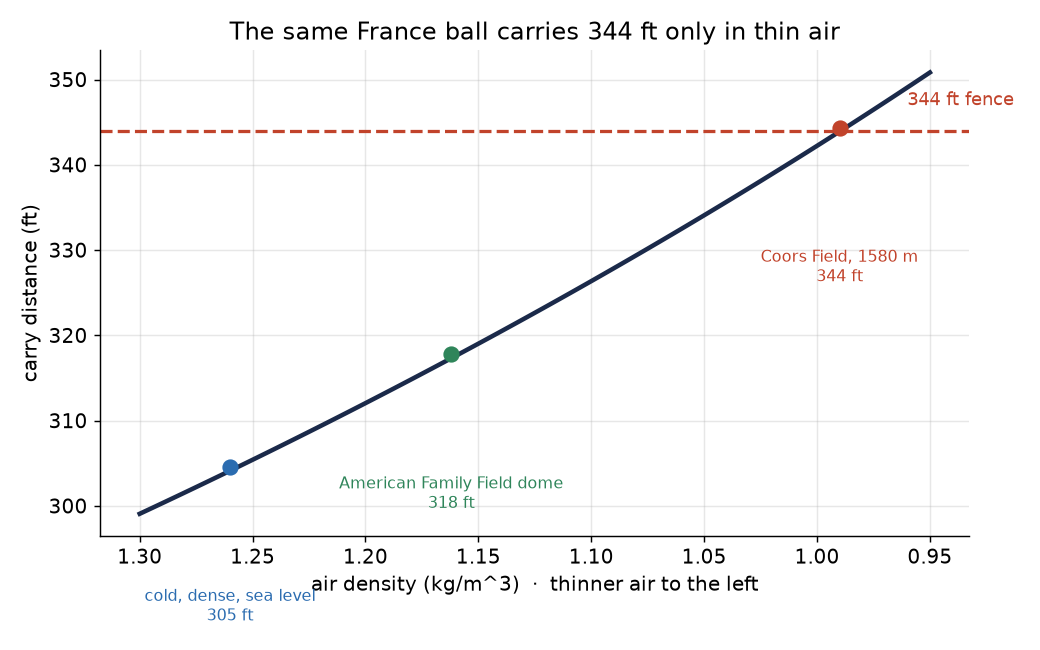
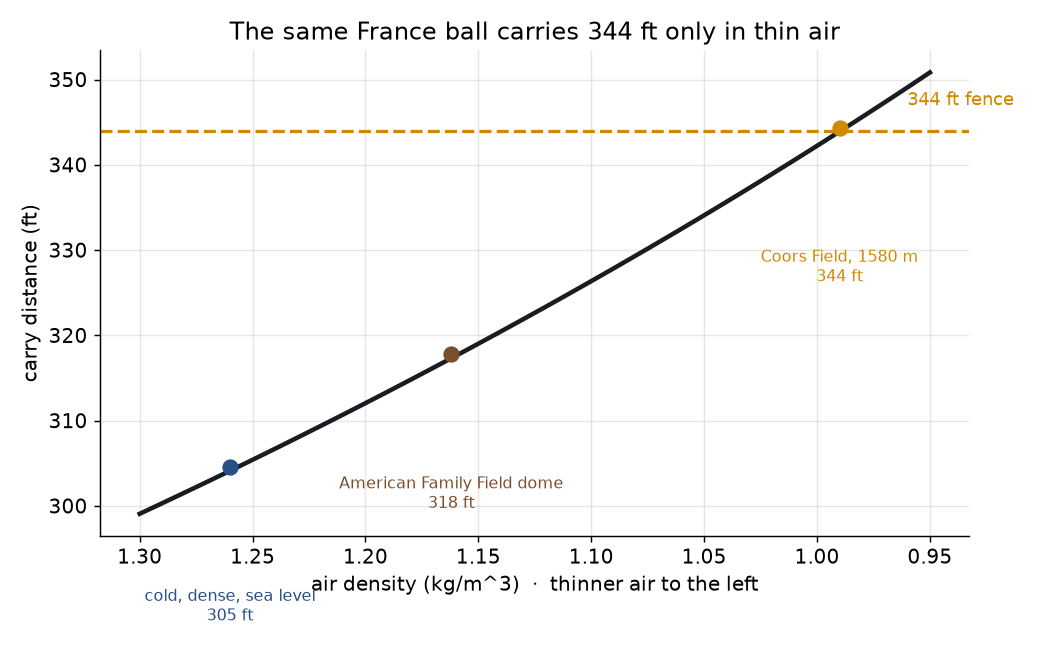
feat(web): Brewers/Padres matchup palette (navy + gold + brown)
Navy for the pool and the park, gold for the home-run accent (both clubs share it), Padres brown for France's own marks (the cable strike, the cut-short path, his line and the dome point). Applied to the page tokens, the in-browser charts, all six figures, and the favicon (gold Eiffel on deep navy). Light and dark variants both themed.

diff --git a/site/index.html b/site/index.html
@@ -13,26 +13,27 @@
 /* Layout: single-column data story, ~680px reading column, full-bleed chart cards.
    Tokens first (light), redefined for dark under both media and [data-theme]. */
 :root{
-  --bg:#f3f4f1; --surface:#ffffff; --fg:#15181c; --muted:#59636e;
-  --line:#dadfd8; --grid:rgba(0,0,0,.08);
-  --accent:#df4f27;      /* over the fence, home run */
-  --accent-soft:#f3cfc2;
-  --cool:#36627f;        /* fell short, distribution */
-  --cool-soft:#c6d6df;
+  --bg:#f3f1ec; --surface:#ffffff; --fg:#1a1c22; --muted:#5f6670;
+  --line:#dedbd2; --grid:rgba(0,0,0,.08);
+  --accent:#cf8a00;      /* gold: reached / home run */
+  --accent-soft:#f0dcae;
+  --cool:#284f86;        /* Brewers navy: fell short, the pool */
+  --cool-soft:#cdd9ea;
+  --france:#7a4f2e;       /* Padres brown: France's own ball */
   --display:"Oswald",system-ui,sans-serif;
   --body:"IBM Plex Sans",system-ui,sans-serif;
   --mono:"IBM Plex Mono",ui-monospace,monospace;
 }
 @media (prefers-color-scheme:dark){:root:not([data-theme="light"]){
-  --bg:#111419; --surface:#191d23; --fg:#e7eae5; --muted:#99a4b0;
-  --line:#2a313a; --grid:rgba(255,255,255,.09);
-  --accent:#ff6b3d; --accent-soft:#4a2a1e; --cool:#5c9ccc; --cool-soft:#213744;
+  --bg:#12151b; --surface:#1a1e25; --fg:#e9ebf0; --muted:#9aa3b0;
+  --line:#2a2f38; --grid:rgba(255,255,255,.09);
+  --accent:#ffc52f; --accent-soft:#43351a; --cool:#6f9fd6; --cool-soft:#1e2f49; --france:#c08a5a;
   color-scheme:dark;
 }}
 :root[data-theme="dark"]{
-  --bg:#111419; --surface:#191d23; --fg:#e7eae5; --muted:#99a4b0;
-  --line:#2a313a; --grid:rgba(255,255,255,.09);
-  --accent:#ff6b3d; --accent-soft:#4a2a1e; --cool:#5c9ccc; --cool-soft:#213744;
+  --bg:#12151b; --surface:#1a1e25; --fg:#e9ebf0; --muted:#9aa3b0;
+  --line:#2a2f38; --grid:rgba(255,255,255,.09);
+  --accent:#ffc52f; --accent-soft:#43351a; --cool:#6f9fd6; --cool-soft:#1e2f49; --france:#c08a5a;
   color-scheme:dark;
 }
 *{box-sizing:border-box}
@@ -160,8 +161,7 @@ footer .mono{font-size:.78rem}
       <p class="csub">Side view from home plate, to scale: the free-flight arc, the cable-clipped path, and the model's landing distribution along the ground.</p>
       <div class="legend">
         <span><i class="swatch" style="background:var(--accent)"></i>model free flight</span>
-        <span><i class="swatch" style="background:#d99a2b"></i>roof cable</span>
-        <span><i class="swatch" style="background:var(--muted)"></i>path after the cable</span>
+        <span><i class="swatch" style="background:var(--france)"></i>cable and path after</span>
         <span><i class="swatch" style="background:var(--fg)"></i>344 ft fence (8 ft)</span>
       </div>
       <div class="chart-box" id="trajBox"></div>
@@ -235,7 +235,7 @@ footer .mono{font-size:.78rem}
       <p class="csub">Carry of the 105.3 mph, 49 degree ball across air densities, from the fitted model.</p>
       <div class="legend">
         <span><i class="swatch" style="background:var(--accent)"></i>Coors Field (0.99)</span>
-        <span><i class="swatch" style="background:#3a9d5d"></i>Milwaukee dome (1.16)</span>
+        <span><i class="swatch" style="background:var(--france)"></i>Milwaukee dome (1.16)</span>
         <span><i class="swatch" style="background:var(--cool)"></i>cold sea level (1.26)</span>
       </div>
       <div class="chart-box" style="height:300px"><canvas id="chartDensity"></canvas></div>
@@ -421,7 +421,7 @@ function build(){
   }));
 
   // 4. air density effect at the France profile
-  const green='#3a9d5d';
+  const france=cssv('--france');
   const dc=DATA.density_curve;
   const dpts=dc.rho.map((r,i)=>({x:r,y:dc.carry[i]}));
   charts.push(new Chart(document.getElementById('chartDensity'),{
@@ -429,7 +429,7 @@ function build(){
     data:{datasets:[
       {data:dpts,showLine:true,borderColor:fg,borderWidth:2.5,pointRadius:0,tension:.2,order:2},
       {data:dc.markers.map(m=>({x:m.rho,y:m.carry})),pointRadius:6,
-        backgroundColor:dc.markers.map((m,i)=>[acc,green,cool][i]),borderWidth:0,order:1}
+        backgroundColor:dc.markers.map((m,i)=>[acc,france,cool][i]),borderWidth:0,order:1}
     ]},
     options:{responsive:true,maintainAspectRatio:false,animation:false,
       plugins:{legend:{display:false},tooltip:{callbacks:{label:it=>`density ${it.parsed.x.toFixed(2)}: ${Math.round(it.parsed.y)} ft`}},
@@ -445,7 +445,7 @@ function build(){
 function drawTrajectory(){
   const T=DATA.trajectory;
   const fg=cssv('--fg'), muted=cssv('--muted'), acc=cssv('--accent'), cool=cssv('--cool'), accSoft=cssv('--accent-soft');
-  const green='#3a9d5d', gold='#d99a2b';
+  const france=cssv('--france');
   const SC=1.3;                                  // px per foot, equal aspect
   const Xmax=412, Zmax=Math.max(T.apex_z,120)+46, Zmin=-30, padX=12, padT=10;
   const Wpx=Xmax*SC+padX*2, Hpx=(Zmax-Zmin)*SC+padT*2;
@@ -471,18 +471,18 @@ function drawTrajectory(){
 
   const svg=`
   <svg viewBox="0 0 ${Wpx.toFixed(0)} ${Hpx.toFixed(0)}" width="100%" style="max-width:100%;height:auto" role="img"
-       aria-label="Side view of France's ball from home plate, to scale. The model's free-flight arc peaks about ${Math.round(cz)} feet up and lands about ${Math.round(T.landing_ft)} feet out, ${shortv} feet short of the 344 foot, 8 foot fence. A gold mark near the apex is the roof cable; the dashed path is where the clipped ball came down, deep in left field. A rug along the ground shows the model's landing distribution; ${frac} percent reach the fence.">
+       aria-label="Side view of France's ball from home plate, to scale. The model's free-flight arc peaks about ${Math.round(cz)} feet up and lands about ${Math.round(T.landing_ft)} feet out, ${shortv} feet short of the 344 foot, 8 foot fence. A brown mark near the apex is the roof cable; the dashed path is where the clipped ball came down, deep in left field. A rug along the ground shows the model's landing distribution; ${frac} percent reach the fence.">
     <style>
       .arc{fill:none;stroke:${acc};stroke-width:2.6;stroke-linejoin:round}
       .band{fill:${accSoft};opacity:.55}
-      .intr{fill:none;stroke:${muted};stroke-width:1.8;stroke-dasharray:3 4;opacity:.85}
+      .intr{fill:none;stroke:${france};stroke-width:1.8;stroke-dasharray:3 4;opacity:.85}
       .grd{stroke:${muted};stroke-width:1}
       .tick{stroke:${muted};stroke-width:1;opacity:.5}
       .lab{fill:${muted};font:500 12px "IBM Plex Mono",monospace}
       .labf{fill:${fg};font:600 12px "IBM Plex Mono",monospace}
-      .labg{fill:${green};font:600 12px "IBM Plex Mono",monospace}
+      .labg{fill:${cool};font:600 12px "IBM Plex Mono",monospace}
       .hint{fill:${cool};font:600 11.5px "IBM Plex Mono",monospace;cursor:pointer}
-      .sfk{stroke:${green};stroke-width:1.4}
+      .sfk{stroke:${cool};stroke-width:1.4}
       #rugHit{cursor:pointer}
     </style>
     <line class="grd" x1="${X(0)}" y1="${g}" x2="${X(Xmax)}" y2="${g}"/>
@@ -496,8 +496,8 @@ function drawTrajectory(){
     <text x="${X(T.wall_ft)}" y="${Y(16)}" text-anchor="middle" class="lab">fence, 8 ft</text>
     <line class="sfk" x1="${X(T.landing_ft)}" y1="${Y(46)}" x2="${X(T.wall_ft)}" y2="${Y(46)}"/>
     <text x="${X((T.landing_ft+T.wall_ft)/2)}" y="${Y(52)}" text-anchor="middle" class="labg">${shortv} ft short</text>
-    <line x1="${X(cx-16)}" y1="${Y(cz)}" x2="${X(cx+16)}" y2="${Y(cz)}" stroke="${gold}" stroke-width="3"/>
-    <circle cx="${X(cx)}" cy="${Y(cz)}" r="5" fill="${gold}" stroke="${fg}" stroke-width="0.8"/>
+    <line x1="${X(cx-16)}" y1="${Y(cz)}" x2="${X(cx+16)}" y2="${Y(cz)}" stroke="${france}" stroke-width="3"/>
+    <circle cx="${X(cx)}" cy="${Y(cz)}" r="5" fill="${france}" stroke="${fg}" stroke-width="0.8"/>
     <text x="${X(cx)}" y="${Y(cz+27)}" text-anchor="middle" class="lab">clipped the roof cable near its apex</text>
     <text x="${X(cx)}" y="${Y(cz+15)}" text-anchor="middle" class="lab">best estimate ~${Math.round(cz)} ft up, ${Math.round(cx)} ft out</text>
     <circle cx="${X(cpt)}" cy="${Y(3)}" r="4.5" fill="${fg}"/>

diff --git a/web/index.template.html b/web/index.template.html
@@ -8,26 +8,27 @@
 /* Layout: single-column data story, ~680px reading column, full-bleed chart cards.
    Tokens first (light), redefined for dark under both media and [data-theme]. */
 :root{
-  --bg:#f3f4f1; --surface:#ffffff; --fg:#15181c; --muted:#59636e;
-  --line:#dadfd8; --grid:rgba(0,0,0,.08);
-  --accent:#df4f27;      /* over the fence, home run */
-  --accent-soft:#f3cfc2;
-  --cool:#36627f;        /* fell short, distribution */
-  --cool-soft:#c6d6df;
+  --bg:#f3f1ec; --surface:#ffffff; --fg:#1a1c22; --muted:#5f6670;
+  --line:#dedbd2; --grid:rgba(0,0,0,.08);
+  --accent:#cf8a00;      /* gold: reached / home run */
+  --accent-soft:#f0dcae;
+  --cool:#284f86;        /* Brewers navy: fell short, the pool */
+  --cool-soft:#cdd9ea;
+  --france:#7a4f2e;       /* Padres brown: France's own ball */
   --display:"Oswald",system-ui,sans-serif;
   --body:"IBM Plex Sans",system-ui,sans-serif;
   --mono:"IBM Plex Mono",ui-monospace,monospace;
 }
 @media (prefers-color-scheme:dark){:root:not([data-theme="light"]){
-  --bg:#111419; --surface:#191d23; --fg:#e7eae5; --muted:#99a4b0;
-  --line:#2a313a; --grid:rgba(255,255,255,.09);
-  --accent:#ff6b3d; --accent-soft:#4a2a1e; --cool:#5c9ccc; --cool-soft:#213744;
+  --bg:#12151b; --surface:#1a1e25; --fg:#e9ebf0; --muted:#9aa3b0;
+  --line:#2a2f38; --grid:rgba(255,255,255,.09);
+  --accent:#ffc52f; --accent-soft:#43351a; --cool:#6f9fd6; --cool-soft:#1e2f49; --france:#c08a5a;
   color-scheme:dark;
 }}
 :root[data-theme="dark"]{
-  --bg:#111419; --surface:#191d23; --fg:#e7eae5; --muted:#99a4b0;
-  --line:#2a313a; --grid:rgba(255,255,255,.09);
-  --accent:#ff6b3d; --accent-soft:#4a2a1e; --cool:#5c9ccc; --cool-soft:#213744;
+  --bg:#12151b; --surface:#1a1e25; --fg:#e9ebf0; --muted:#9aa3b0;
+  --line:#2a2f38; --grid:rgba(255,255,255,.09);
+  --accent:#ffc52f; --accent-soft:#43351a; --cool:#6f9fd6; --cool-soft:#1e2f49; --france:#c08a5a;
   color-scheme:dark;
 }
 *{box-sizing:border-box}
@@ -154,8 +155,7 @@ footer .mono{font-size:.78rem}
       <p class="csub">Side view from home plate, to scale: the free-flight arc, the cable-clipped path, and the model's landing distribution along the ground.</p>
       <div class="legend">
         <span><i class="swatch" style="background:var(--accent)"></i>model free flight</span>
-        <span><i class="swatch" style="background:#d99a2b"></i>roof cable</span>
-        <span><i class="swatch" style="background:var(--muted)"></i>path after the cable</span>
+        <span><i class="swatch" style="background:var(--france)"></i>cable and path after</span>
         <span><i class="swatch" style="background:var(--fg)"></i>344 ft fence (8 ft)</span>
       </div>
       <div class="chart-box" id="trajBox"></div>
@@ -229,7 +229,7 @@ footer .mono{font-size:.78rem}
       <p class="csub">Carry of the 105.3 mph, 49 degree ball across air densities, from the fitted model.</p>
       <div class="legend">
         <span><i class="swatch" style="background:var(--accent)"></i>Coors Field (0.99)</span>
-        <span><i class="swatch" style="background:#3a9d5d"></i>Milwaukee dome (1.16)</span>
+        <span><i class="swatch" style="background:var(--france)"></i>Milwaukee dome (1.16)</span>
         <span><i class="swatch" style="background:var(--cool)"></i>cold sea level (1.26)</span>
       </div>
       <div class="chart-box" style="height:300px"><canvas id="chartDensity"></canvas></div>
@@ -415,7 +415,7 @@ function build(){
   }));
 
   // 4. air density effect at the France profile
-  const green='#3a9d5d';
+  const france=cssv('--france');
   const dc=DATA.density_curve;
   const dpts=dc.rho.map((r,i)=>({x:r,y:dc.carry[i]}));
   charts.push(new Chart(document.getElementById('chartDensity'),{
@@ -423,7 +423,7 @@ function build(){
     data:{datasets:[
       {data:dpts,showLine:true,borderColor:fg,borderWidth:2.5,pointRadius:0,tension:.2,order:2},
       {data:dc.markers.map(m=>({x:m.rho,y:m.carry})),pointRadius:6,
-        backgroundColor:dc.markers.map((m,i)=>[acc,green,cool][i]),borderWidth:0,order:1}
+        backgroundColor:dc.markers.map((m,i)=>[acc,france,cool][i]),borderWidth:0,order:1}
     ]},
     options:{responsive:true,maintainAspectRatio:false,animation:false,
       plugins:{legend:{display:false},tooltip:{callbacks:{label:it=>`density ${it.parsed.x.toFixed(2)}: ${Math.round(it.parsed.y)} ft`}},
@@ -439,7 +439,7 @@ function build(){
 function drawTrajectory(){
   const T=DATA.trajectory;
   const fg=cssv('--fg'), muted=cssv('--muted'), acc=cssv('--accent'), cool=cssv('--cool'), accSoft=cssv('--accent-soft');
-  const green='#3a9d5d', gold='#d99a2b';
+  const france=cssv('--france');
   const SC=1.3;                                  // px per foot, equal aspect
   const Xmax=412, Zmax=Math.max(T.apex_z,120)+46, Zmin=-30, padX=12, padT=10;
   const Wpx=Xmax*SC+padX*2, Hpx=(Zmax-Zmin)*SC+padT*2;
@@ -465,18 +465,18 @@ function drawTrajectory(){
 
   const svg=`
   <svg viewBox="0 0 ${Wpx.toFixed(0)} ${Hpx.toFixed(0)}" width="100%" style="max-width:100%;height:auto" role="img"
-       aria-label="Side view of France's ball from home plate, to scale. The model's free-flight arc peaks about ${Math.round(cz)} feet up and lands about ${Math.round(T.landing_ft)} feet out, ${shortv} feet short of the 344 foot, 8 foot fence. A gold mark near the apex is the roof cable; the dashed path is where the clipped ball came down, deep in left field. A rug along the ground shows the model's landing distribution; ${frac} percent reach the fence.">
+       aria-label="Side view of France's ball from home plate, to scale. The model's free-flight arc peaks about ${Math.round(cz)} feet up and lands about ${Math.round(T.landing_ft)} feet out, ${shortv} feet short of the 344 foot, 8 foot fence. A brown mark near the apex is the roof cable; the dashed path is where the clipped ball came down, deep in left field. A rug along the ground shows the model's landing distribution; ${frac} percent reach the fence.">
     <style>
       .arc{fill:none;stroke:${acc};stroke-width:2.6;stroke-linejoin:round}
       .band{fill:${accSoft};opacity:.55}
-      .intr{fill:none;stroke:${muted};stroke-width:1.8;stroke-dasharray:3 4;opacity:.85}
+      .intr{fill:none;stroke:${france};stroke-width:1.8;stroke-dasharray:3 4;opacity:.85}
       .grd{stroke:${muted};stroke-width:1}
       .tick{stroke:${muted};stroke-width:1;opacity:.5}
       .lab{fill:${muted};font:500 12px "IBM Plex Mono",monospace}
       .labf{fill:${fg};font:600 12px "IBM Plex Mono",monospace}
-      .labg{fill:${green};font:600 12px "IBM Plex Mono",monospace}
+      .labg{fill:${cool};font:600 12px "IBM Plex Mono",monospace}
       .hint{fill:${cool};font:600 11.5px "IBM Plex Mono",monospace;cursor:pointer}
-      .sfk{stroke:${green};stroke-width:1.4}
+      .sfk{stroke:${cool};stroke-width:1.4}
       #rugHit{cursor:pointer}
     </style>
     <line class="grd" x1="${X(0)}" y1="${g}" x2="${X(Xmax)}" y2="${g}"/>
@@ -490,8 +490,8 @@ function drawTrajectory(){
     <text x="${X(T.wall_ft)}" y="${Y(16)}" text-anchor="middle" class="lab">fence, 8 ft</text>
     <line class="sfk" x1="${X(T.landing_ft)}" y1="${Y(46)}" x2="${X(T.wall_ft)}" y2="${Y(46)}"/>
     <text x="${X((T.landing_ft+T.wall_ft)/2)}" y="${Y(52)}" text-anchor="middle" class="labg">${shortv} ft short</text>
-    <line x1="${X(cx-16)}" y1="${Y(cz)}" x2="${X(cx+16)}" y2="${Y(cz)}" stroke="${gold}" stroke-width="3"/>
-    <circle cx="${X(cx)}" cy="${Y(cz)}" r="5" fill="${gold}" stroke="${fg}" stroke-width="0.8"/>
+    <line x1="${X(cx-16)}" y1="${Y(cz)}" x2="${X(cx+16)}" y2="${Y(cz)}" stroke="${france}" stroke-width="3"/>
+    <circle cx="${X(cx)}" cy="${Y(cz)}" r="5" fill="${france}" stroke="${fg}" stroke-width="0.8"/>
     <text x="${X(cx)}" y="${Y(cz+27)}" text-anchor="middle" class="lab">clipped the roof cable near its apex</text>
     <text x="${X(cx)}" y="${Y(cz+15)}" text-anchor="middle" class="lab">best estimate ~${Math.round(cz)} ft up, ${Math.round(cx)} ft out</text>
     <circle cx="${X(cpt)}" cy="${Y(3)}" r="4.5" fill="${fg}"/>

diff --git a/frb/plots.py b/frb/plots.py
@@ -33,10 +33,10 @@ plt.rcParams.update(
     }
 )
 
-INK = "#1b2a4a"
-ACCENT = "#c1432b"
-BLUE = "#2b6cb0"
-GREEN = "#2f855a"
+INK = "#1a1c22"
+ACCENT = "#cf8a00"  # gold: reached / home run
+BLUE = "#284f86"  # Brewers navy: the pool / short
+GREEN = "#7a4f2e"  # Padres brown: France-specific marks
 
 
 def plot_carry_vs_la(df: pd.DataFrame, fit: P.LiftFit, path, ev: float = 105.0) -> None:
@@ -90,7 +90,7 @@ def plot_france_distribution(df: pd.DataFrame, path) -> None:
 
     fig, ax = plt.subplots(figsize=(8, 5))
     # Anchor bins so the 344 ft fence lands exactly on a bin edge, keeping the
-    # cleared (red) region cleanly separated from the rest.
+    # cleared (gold) region cleanly separated from the rest.
     width = 8.0
     lo = C.FENCE_FT - width * np.ceil((C.FENCE_FT - carry.min()) / width)
     hi = C.FENCE_FT + width * np.ceil((carry.max() - C.FENCE_FT) / width) + width
@@ -191,7 +191,7 @@ def plot_park_map(path) -> None:
     ax.plot(
         [0, 360 * np.sin(rf)],
         [0, 360 * np.cos(rf)],
-        color=ACCENT,
+        color=GREEN,
         lw=2,
         ls="--",
         label=f"France line ({C.FRANCE_SPRAY:.0f} deg, wall {df_wall:.0f} ft)",
@@ -227,7 +227,7 @@ def plot_trajectory_profile(
     path after the strike comes down just inside the free flight, deep in left
     field short of the wall, consistent with the ball's Statcast distance. The
     344 ft fence (8 ft tall) is drawn to scale, and a rug shows the model's
-    landing distribution, red where it reaches the fence.
+    landing distribution, gold where it reaches the fence.
 
     Arguments:
         fit: The fitted physics model.
@@ -273,7 +273,7 @@ def plot_trajectory_profile(
     dcx, dcz, _, _, catch = P.post_cable_trajectory(
         C.FRANCE_EV, C.FRANCE_LA, cl0, rho_dome, cd=cd0, speed_retained=0.9
     )
-    ax.plot(dcx, dcz, ":", color="#6a6a6a", lw=1.9, label="path after the cable (estimated)")
+    ax.plot(dcx, dcz, ":", color=GREEN, lw=1.9, label="path after the cable (estimated)")
 
     # The 344 ft fence, 8 ft tall, to scale; labels to its right.
     ax.add_patch(plt.Rectangle((C.FENCE_FT, 0), 2.4, C.WALL_HEIGHT_FT, color=INK))
@@ -281,8 +281,8 @@ def plot_trajectory_profile(
     ax.annotate(f"{C.WALL_HEIGHT_FT:.0f} ft high", xy=(C.FENCE_FT + 6, 5), fontsize=9, color=INK)
 
     # Cable strike at the apex (best estimate), in gold so it reads as the cable.
-    ax.plot([apex_x - 13, apex_x + 13], [apex_z, apex_z], "-", color="#d99a2b", lw=3)
-    ax.plot(apex_x, apex_z, "o", color="#d99a2b", ms=8, markeredgecolor=INK, markeredgewidth=0.6)
+    ax.plot([apex_x - 13, apex_x + 13], [apex_z, apex_z], "-", color=GREEN, lw=3)
+    ax.plot(apex_x, apex_z, "o", color=GREEN, ms=8, markeredgecolor=INK, markeredgewidth=0.6)
     ax.annotate(
         f"clipped the roof cable near its apex\nbest estimate: ~{apex_z:.0f} ft up, {apex_x:.0f} ft out",
         xy=(apex_x, apex_z),
@@ -296,9 +296,9 @@ def plot_trajectory_profile(
     ax.plot(catch, 3, "o", color=INK, ms=6)
 
     # Shortfall from the free-flight landing to the fence.
-    ax.annotate("", xy=(C.FENCE_FT, 27), xytext=(land, 27), arrowprops=dict(arrowstyle="<->", color=GREEN, lw=1.4))
+    ax.annotate("", xy=(C.FENCE_FT, 27), xytext=(land, 27), arrowprops=dict(arrowstyle="<->", color=BLUE, lw=1.4))
     ax.annotate(f"{C.FENCE_FT - land:.0f} ft short", xy=((land + C.FENCE_FT) / 2, 27),
-                xytext=((land + C.FENCE_FT) / 2 - 14, 32), fontsize=9, color=GREEN)
+                xytext=((land + C.FENCE_FT) / 2 - 14, 32), fontsize=9, color=BLUE)
 
     # Landing distribution rug.
     if landing_samples is not None and len(landing_samples):
@@ -309,7 +309,7 @@ def plot_trajectory_profile(
         lab = "model landing distribution"
         if carry_p05 is not None:
             lab += f": 5th-95th pct {carry_p05:.0f}-{carry_p95:.0f} ft"
-        lab += f";  {frac * 100:.0f}% reach the fence (red)"
+        lab += f";  {frac * 100:.0f}% reach the fence (gold)"
         ax.annotate(lab, xy=(np.median(ss), -9), xytext=(55, -20), fontsize=8.5, color=BLUE)
 
     sub = "" if spin_rpm is None else f"   ·   estimated backspin ≈ {spin_rpm[0]:.0f}–{spin_rpm[1]:.0f} rpm"
